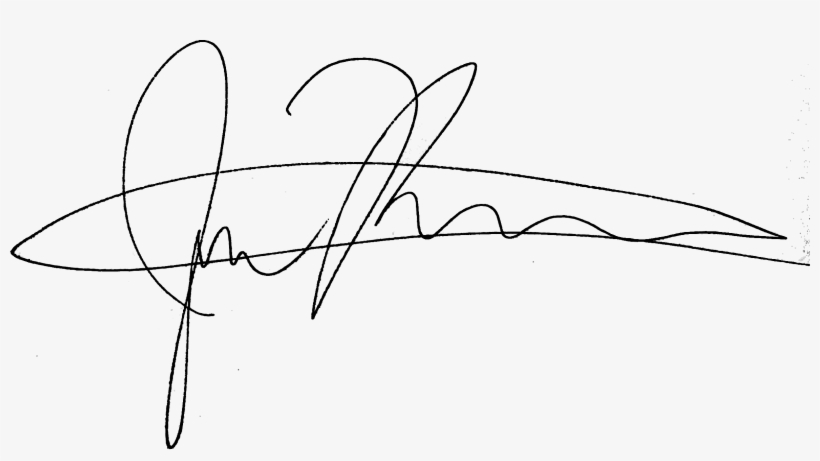
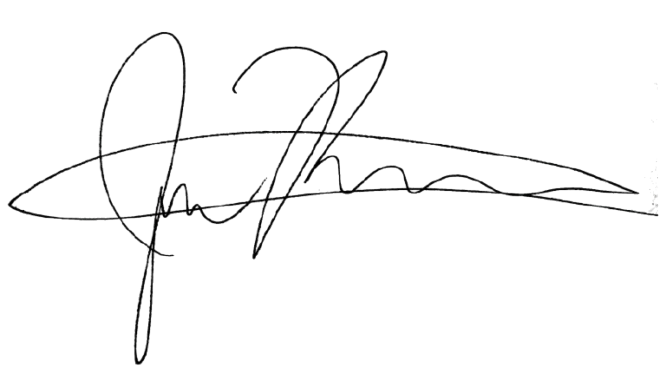
fix file jrxml, fix reportServiceimplement, dto response and design file PDF

diff --git a/testorder-service/src/main/java/sum25/group03/testorderservice/services/impl/ReportServiceImpl.java b/testorder-service/src/main/java/sum25/group03/testorderservice/services/impl/ReportServiceImpl.java
@@ -23,6 +23,9 @@ import java.nio.charset.StandardCharsets;
 import java.time.LocalDate;
 import java.time.format.DateTimeFormatter;
 import java.util.*;
+import java.util.stream.Collectors;
+
+import static java.util.stream.Collectors.toList;
 
 @Service
 @RequiredArgsConstructor
@@ -42,14 +45,13 @@ public class ReportServiceImpl implements ReportService {
             throw new RuntimeException("Cannot export PDF for pending test order");
         }
 
-        // Concatenate TestOrder comments
-        String orderComments = order.getComments() != null
-                ? order.getComments().stream()
+        // 1. Lấy comment của TestOrder thôi
+        String orderComments = Optional.ofNullable(order.getComments())
+                .orElse(List.of())
+                .stream()
                 .map(Comment::getCommentText)
-                .toList().stream()
-                .reduce((c1, c2) -> c1 + ", " + c2)
-                .orElse("")
-                : "";
+                .filter(c -> c != null && !c.isBlank())
+                .collect(Collectors.joining(", "));
 
 
         //mook data patientid=1001
@@ -72,8 +74,9 @@ public class ReportServiceImpl implements ReportService {
                         .flagStatus(r.getFlagStatus())
                         .status(r.getStatus())
                         .createdAt(r.getCreatedAt())
-                        .comments(r.getComments() != null
-                                ? r.getComments().stream()
+                        .comments(Optional.ofNullable(r.getComments())
+                                .orElse(List.of())
+                                .stream()
                                 .map(c -> CommentResponseDTO.builder()
                                         .id(c.getId())
                                         .testOrderId(c.getTestOrder() != null ? c.getTestOrder().getId() : null)
@@ -84,9 +87,9 @@ public class ReportServiceImpl implements ReportService {
                                         .updatedAt(c.getUpdatedAt())
                                         .status(c.getStatus())
                                         .build())
-                                .toList()
-                                : List.of()
-                        )
+                                .toList())
+//                                : List.of()
+
                         .build()
         ).toList();
 

diff --git a/testorder-service/src/main/java/sum25/group03/testorderservice/dtos/response/TestResultResponseExportPDFDTO.java b/testorder-service/src/main/java/sum25/group03/testorderservice/dtos/response/TestResultResponseExportPDFDTO.java
@@ -25,9 +25,15 @@ public class TestResultResponseExportPDFDTO {
     private LocalDateTime createdAt;
     private List<CommentResponseDTO> comments;
 
+    /**
+     * Trả về tất cả comment của TestResult nối bằng ", "
+     */
     public String getCommentTexts() {
         if (comments == null || comments.isEmpty()) return "";
-        return comments.stream().map(CommentResponseDTO::getCommentText).collect(Collectors.joining(", "));
+        return comments.stream()
+                .map(CommentResponseDTO::getCommentText)
+                .filter(c -> c != null && !c.isBlank())
+                .collect(Collectors.joining(", "));
     }
 
 
